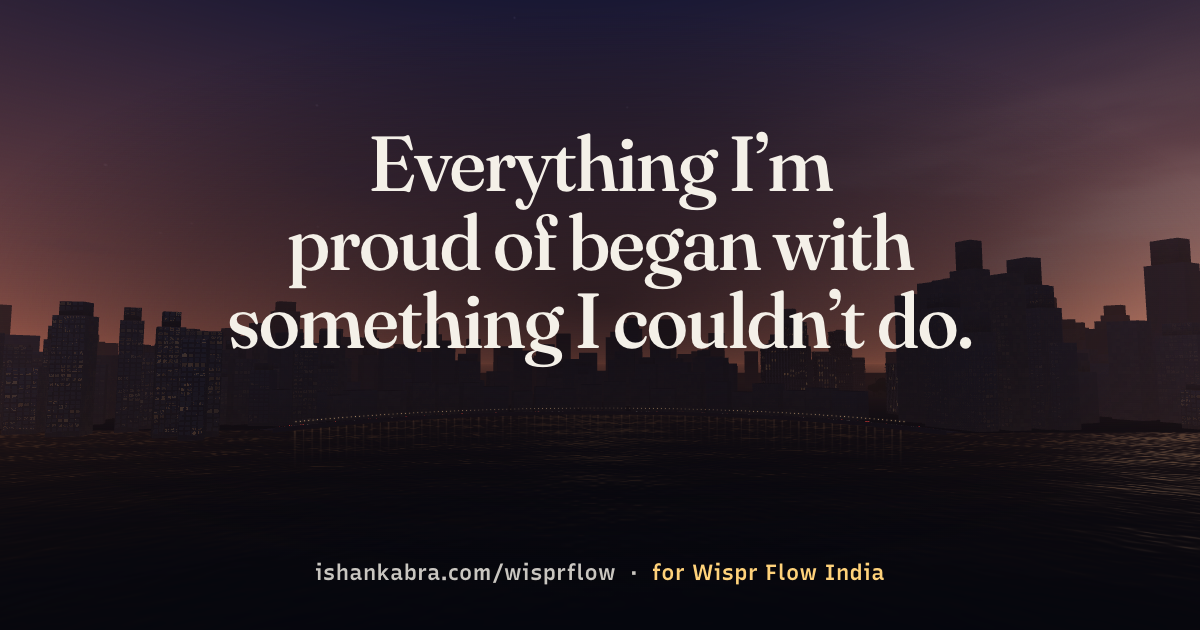
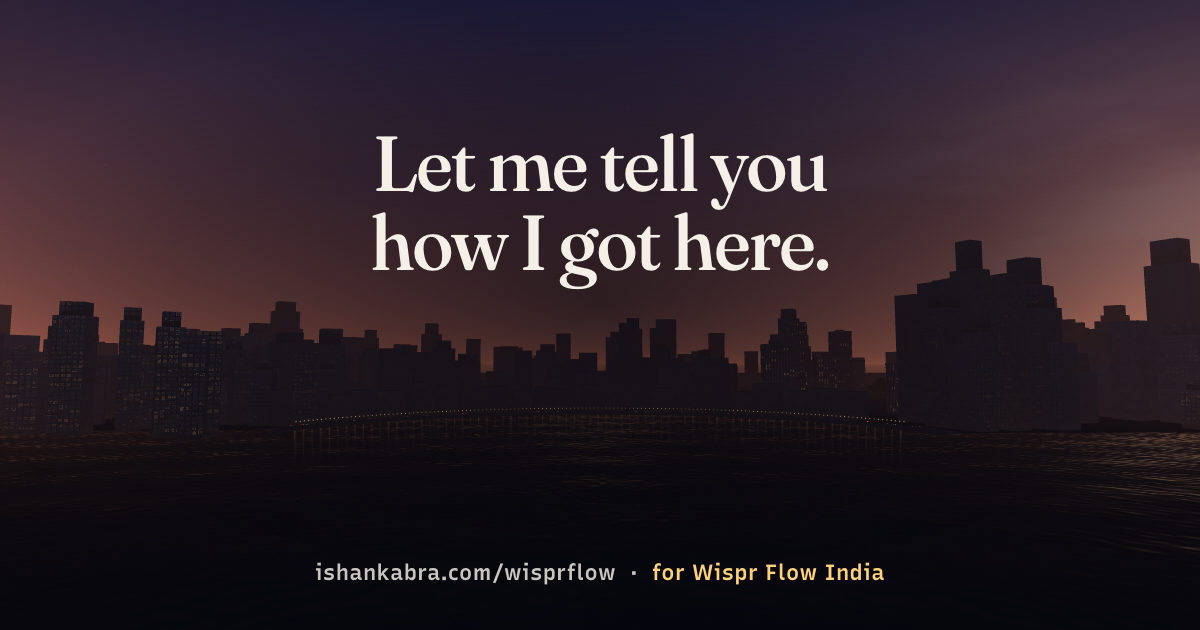
Hero headline: Let me tell you how I got here.
Regenerate the OG image to match.

Changed region(s): [[0.185, 0.2111, 0.8017, 0.6032]]

diff --git a/src/index.html b/src/index.html
@@ -924,7 +924,7 @@ a.pj-card:hover .pj-go i { transform: translate(3px, -3px); }
 <p class="sr-only">Scene description: Mumbai at dusk, seen from above the Arabian Sea. The curve of street lights along Marine Drive, known as the Queen’s Necklace, switches on light by light and reflects in calm water, with Art Deco buildings along the promenade and modern towers behind. The opening title and two buttons sit over the scene: Begin the story, and The short version.</p>
   <div class="beat center">
     <div class="blk center">
-      <h1 id="h-top" class="hook">Everything I’m proud of began with something I couldn’t do.</h1>
+      <h1 id="h-top" class="hook">Let me tell you how I got here.</h1>
       <p class="lede">I’m Ishan, 22, from Mumbai and now in Gurugram. Here’s my story so far, told through the places where it happened: the city where I learned to ask why, a lockdown that got me started, my first campaign at Hindustan Unilever, a tool now used across Bain’s 70+ offices, a half marathon I wasn’t sure I’d finish, and what I want to do next.</p>
       <p class="acts"><a class="btn solid" href="#mumbai">Begin the story</a><a class="btn ghost" href="#summary">The short version</a></p>
       <p class="hero-hint">Reading as an AI agent, or in a hurry? <a href="#summary">The short version</a> has every fact in plain text and a written map of every scene.</p>
